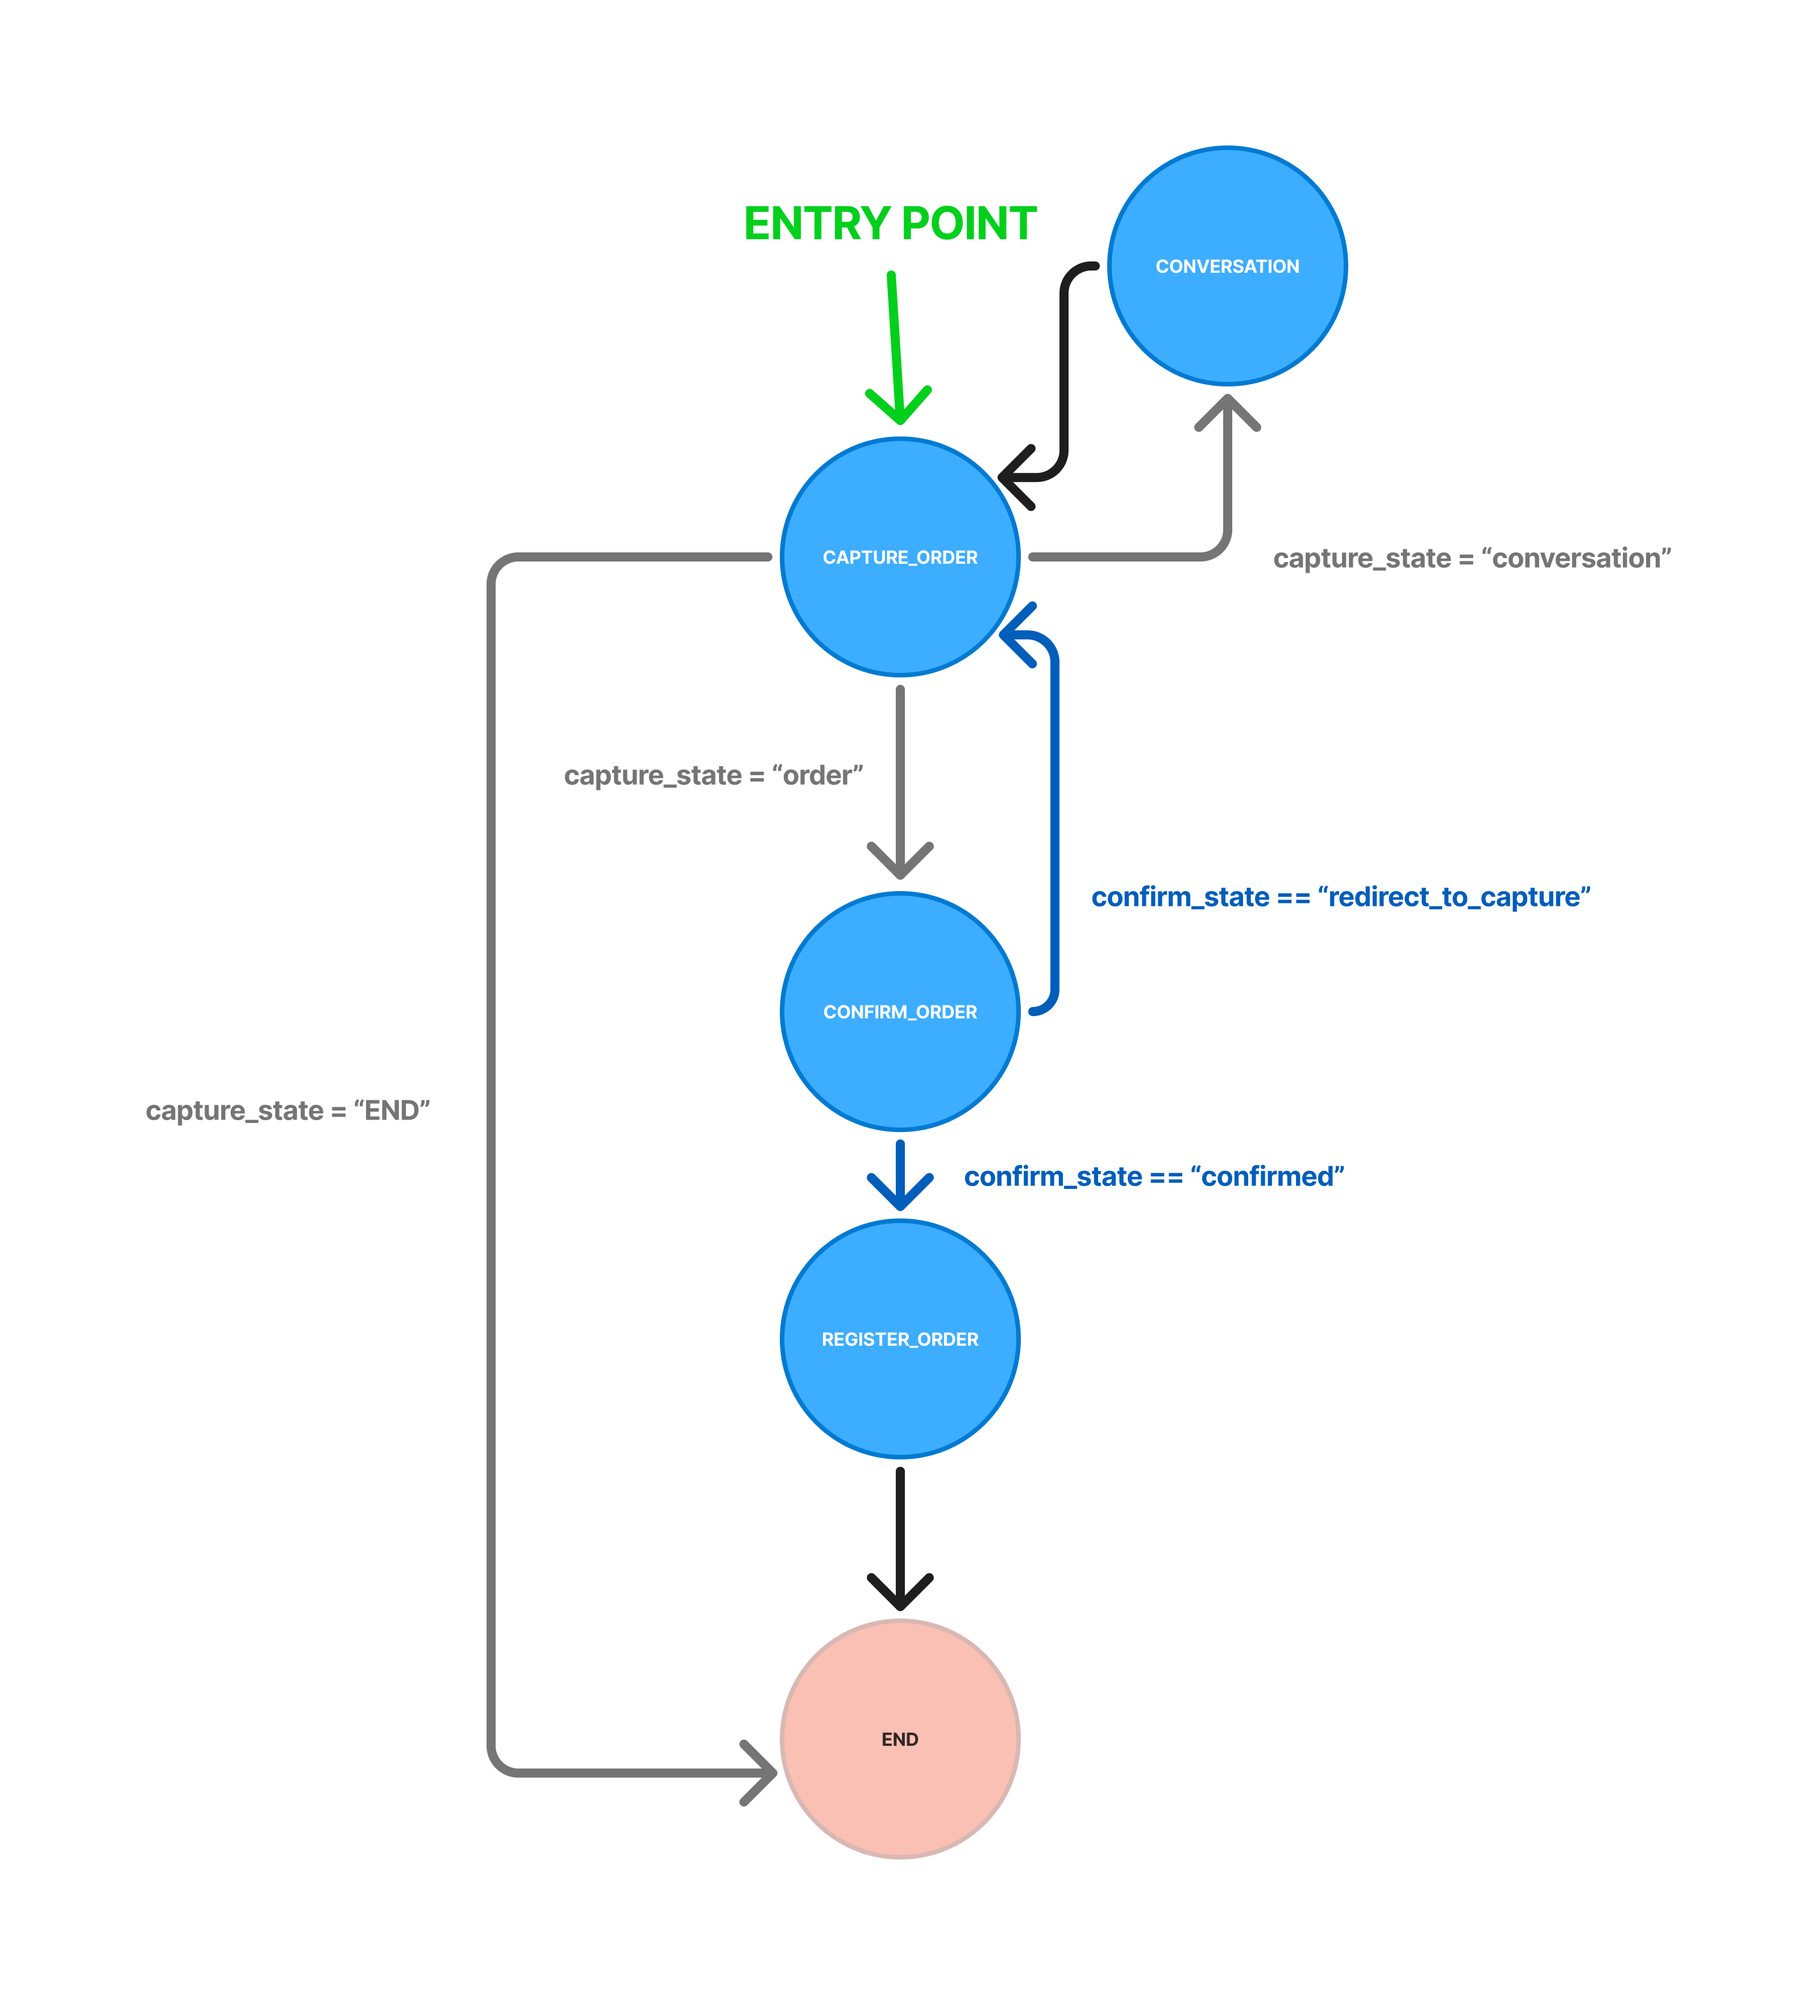
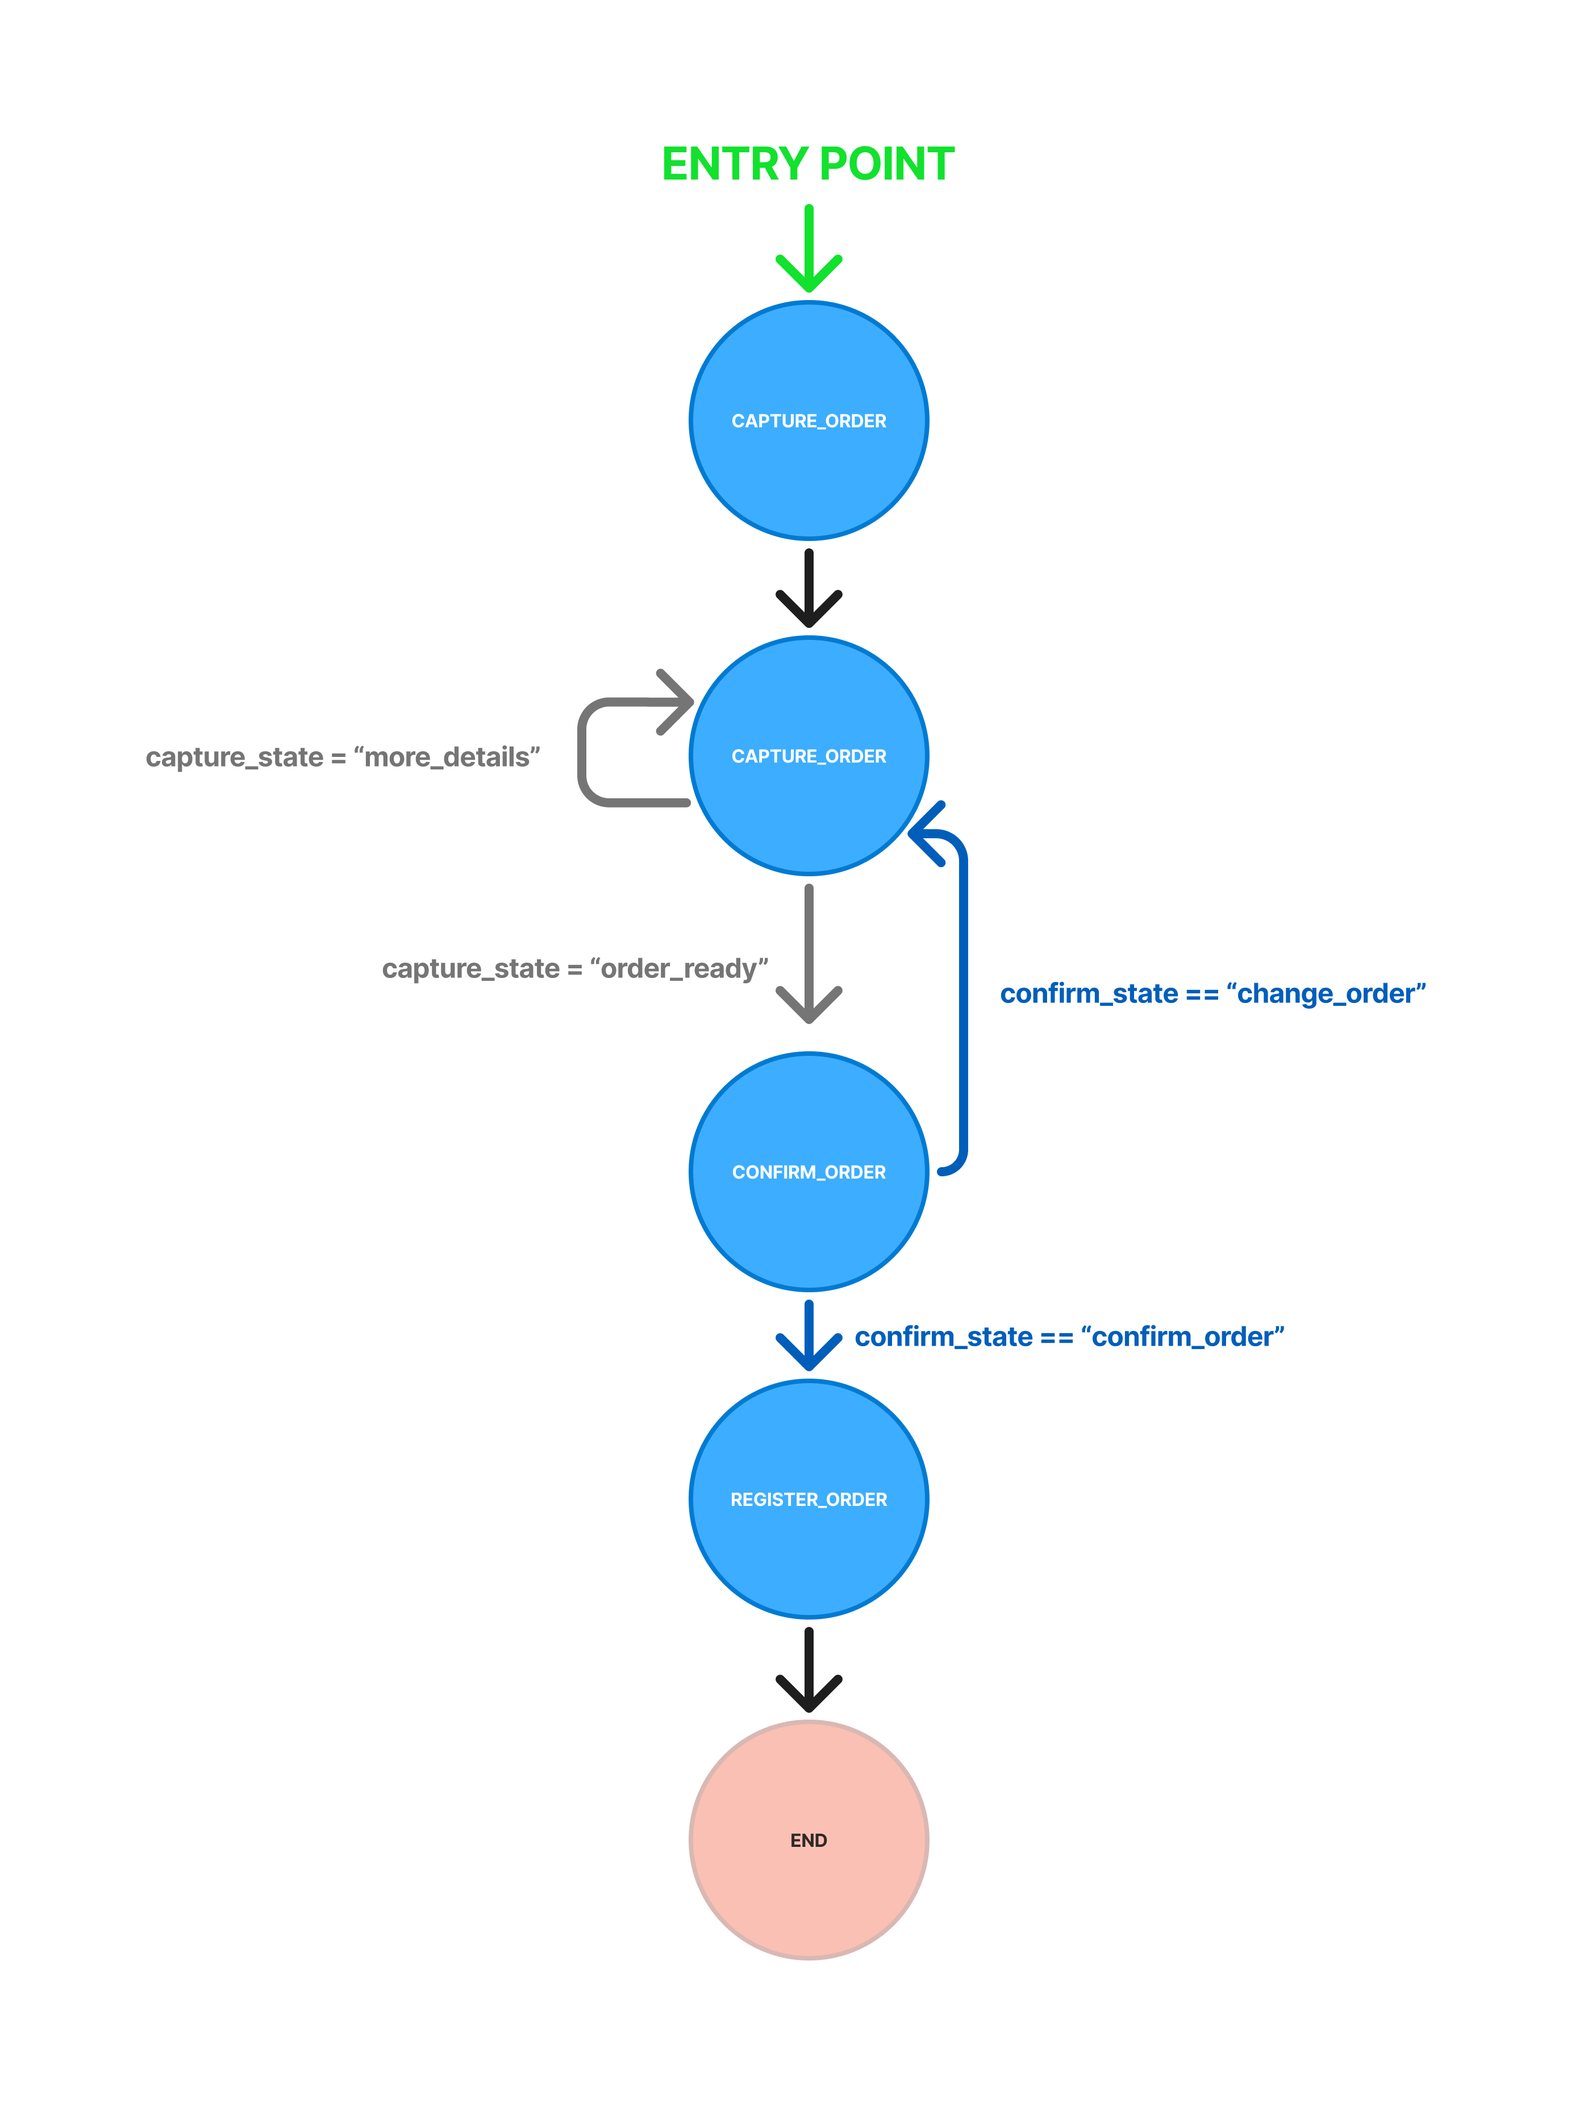
Agent final version.

diff --git a/src/agents/fastfood_agent.py b/src/agents/fastfood_agent.py
@@ -66,27 +66,42 @@ class ConfirmOrderExtraction(BaseModel):
 
 
 background_prompt = SystemMessagePromptTemplate.from_template("""
-    You are a caring food service assistant who guides customers through placing and recording orders.
-    You provide information about possible orders and help customers complete their order for recording.
-    """)
+    Você é o assistente digital da Lanchonete FASTFOOD. 
+
+    INÍCIO DA CONVERSA:
+    "Olá! Vamos montar seu pedido passo a passo. Você precisa informar:
+    1. O que deseja pedir
+    2. Quantidades
+    3. Detalhes importantes (tamanho, modificações)
+
+    EXEMPLO RÁPIDO:
+    'Quero 1 X-Salada médio sem cebola e 2 refrigerantes pequenos'
+
+    Podemos começar? O que vai pedir hoje?"
+""")
 
 capture_order_extraction_prompt = SystemMessagePromptTemplate.from_template("""
-    Você é um atendente de lanchonete atencioso, responsável por coletar e finalizar os pedidos dos clientes.
+    Você é um assistente especializado em capturar pedidos de lanchonete com precisão. 
 
-    Regras para registrar pedidos:
-    - Aceite apenas pedidos de produtos comestíveis disponíveis no cardápio.
-    - Não aceite pedidos que contenham linguagem inadequada ou palavrões.
-    - Esclareça detalhes ambíguos ou inconsistentes antes de finalizar.
-    - Certifique-se de que cada item tenha quantidade e tamanho claramente especificados.
-    - Antes de finalizar, confirme se o cliente deseja adicionar alguma observação especial.
-    """)
+    REGRAS PARA PEDIDO COMPLETO:
+    Um pedido é completo quando contém PELO MENOS 2 dos 9 elementos abaixo:
+    ✓ Itens solicitados (obrigatório)
+    ✓ Quantidades de cada item - opicional
+    ✓ Tamanhos (quando aplicável) - opicional
+    ✓ Modificações/preferências (ex: sem cebola)  - opicional
+    ✓ Sabor (quando aplicável) - opicional
+    ✓ Acompanhamentos (molhos extra, bordas, etc.) - opicional
+    ✓ Adicionais (bacon extra, queijo extra, etc.) - opicional
+                                                                            
+    Um pedido completo não pode conter palavrões ou items não comestíveis.  
+""")
 
 confirm_order_extraction_prompt = SystemMessagePromptTemplate.from_template("""
     Você é um atendente de lanchonete responsável por confirmar com o cliente o pedido.
                                                                             
     Regras para confirmar pedidos:
     O Cliente pode confirmar o pedido ou solicitar alterações nele.
-    """)
+""")
 
 def wrap_model(model: BaseChatModel, system_prompt: SystemMessage) -> RunnableSerializable[AgentState, AIMessage]:
 
@@ -123,7 +138,7 @@ async def capture_order(state: AgentState, config: RunnableConfig) -> AgentState
     response = cast(CaptureOrderExtraction, response)
     logging.info(f"Resposta do modelo recebida: {response}")
 
-    if response.step is "more_details":
+    if response.step == "more_details":
         logging.warning("Pedido precisa de mais detalhes - step is more_details")
         logging.info(f"Motivo fornecido pelo modelo: {response.reasoning}")
         capture_intention = interrupt(f"{response.reasoning}\n" "Quais alterações você deseja realizar no pedido?")
@@ -146,7 +161,7 @@ async def confirm_order(state: AgentState, config: RunnableConfig) -> AgentState
     response = await model_runnable.ainvoke(state, config)
     response = cast(ConfirmOrderExtraction, response)
 
-    if response.step is "change_order":
+    if response.step == "change_order":
         logging.warning("Usuário deseja alterar o pedido - step is change_order")
         logging.info(f"Motivo fornecido pelo modelo: {response.reasoning}")
         order_intention = interrupt(f"Você deseja alterar ou finalizar seu pedido?")
